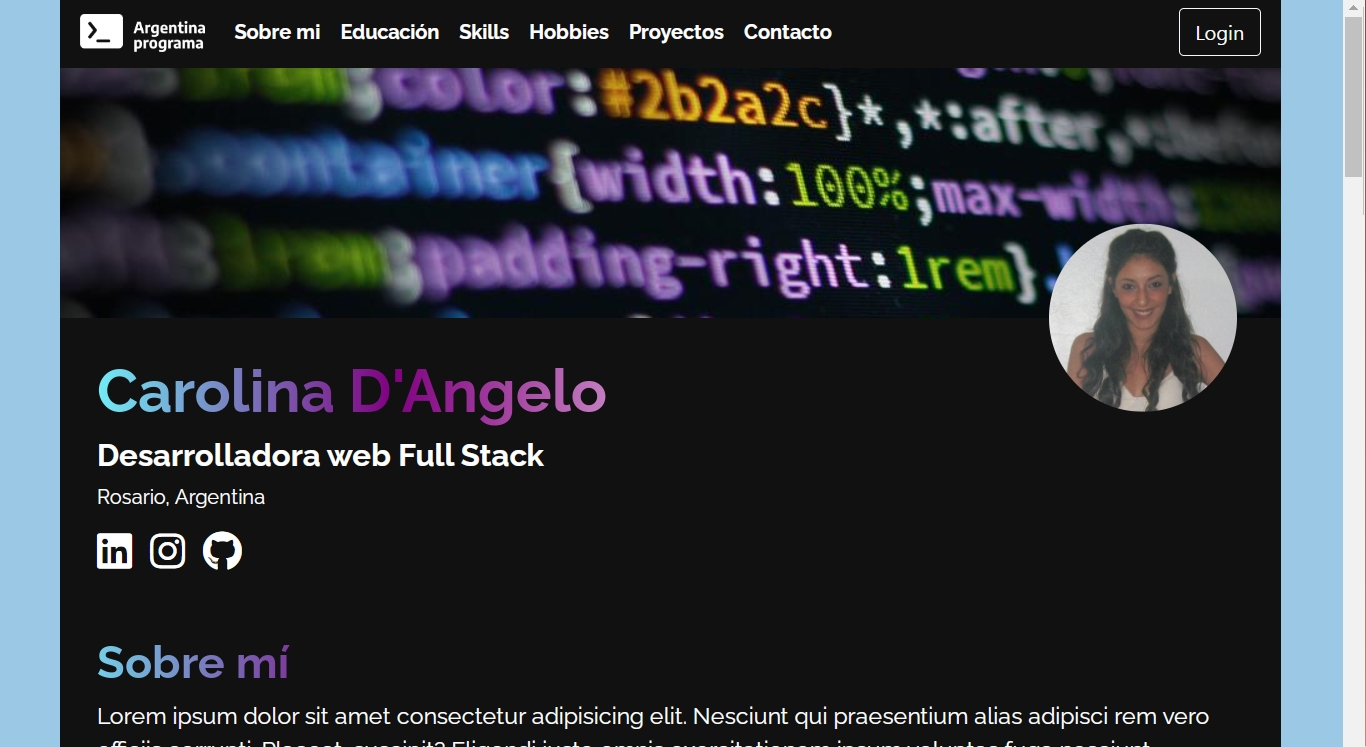
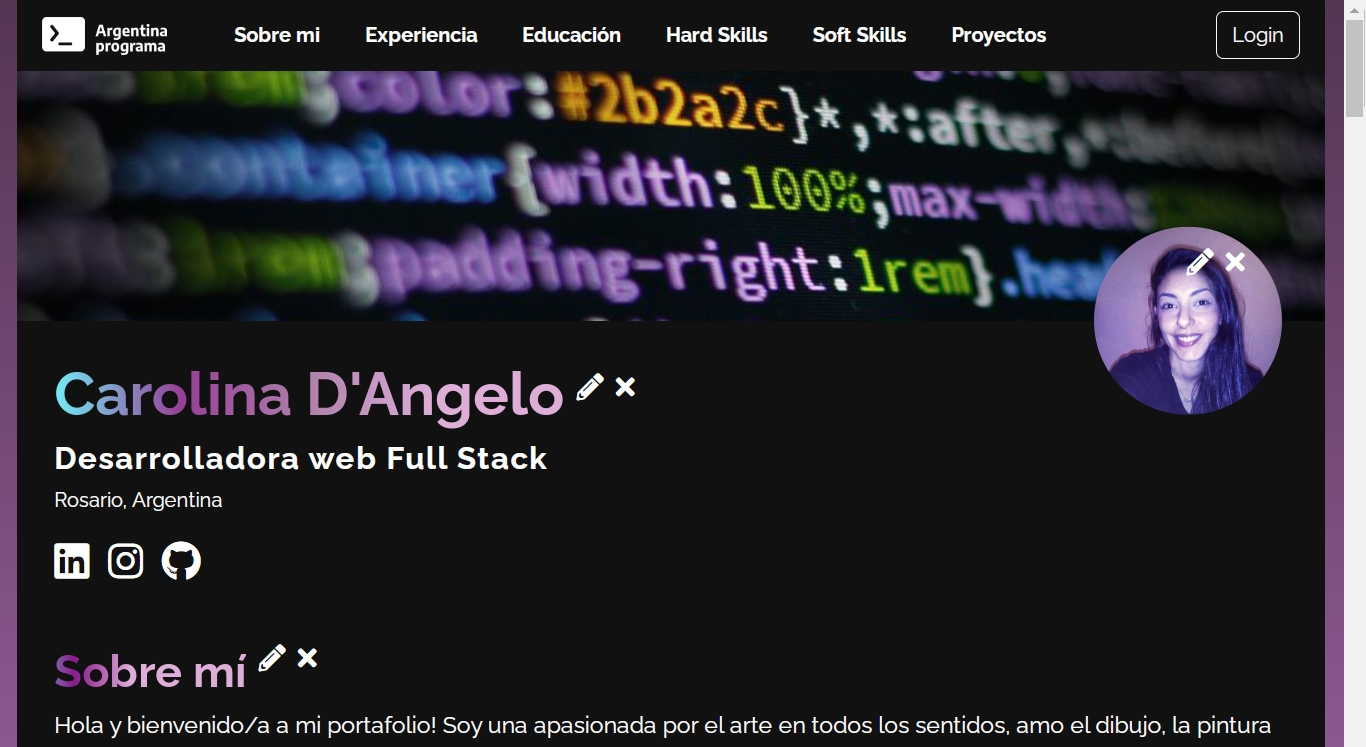
Arreglos

diff --git a/src/index.html b/src/index.html
@@ -6,31 +6,29 @@
   <base href="/">
   <meta name="viewport" content="width=device-width, initial-scale=1">
   <link rel="icon" type="image/x-icon" href="assets/img/favicon.png">
-    <link
-    rel="stylesheet"
-    href="https://maxcdn.bootstrapcdn.com/bootstrap/4.0.0/css/bootstrap.min.css"
-    integrity="sha384-Gn5384xqQ1aoWXA+058RXPxPg6fy4IWvTNh0E263XmFcJlSAwiGgFAW/dAiS6JXm"
-    crossorigin="anonymous"/>
-    <link 
-    href="https://cdn.jsdelivr.net/npm/bootstrap@5.3.0-alpha1/dist/css/bootstrap.min.css" 
-    rel="stylesheet" 
-    integrity="sha384-GLhlTQ8iRABdZLl6O3oVMWSktQOp6b7In1Zl3/Jr59b6EGGoI1aFkw7cmDA6j6gD" 
-    crossorigin="anonymous"/>
-    <link rel="stylesheet" 
-    href="https://use.fontawesome.com/releases/v5.15.1/css/all.css" 
-    integrity="sha384-vp86vTRFVJgpjF9jiIGPEEqYqlDwgyBgEF109VFjmqGmIY/Y4HV4d3Gp2irVfcrp" 
-    crossorigin="anonymous"/>
-    <link rel="stylesheet" href="styles.css">
+
+  <link rel="stylesheet" href="https://cdnjs.cloudflare.com/ajax/libs/bootstrap/5.1.3/css/bootstrap.min.css" 
+  integrity="sha512-NMWd4v4I7/vW8zEjN2+WceJ1vS+7kWAgX6yPKbzOgjT6lOa6oxlU6pkDdKjgIzb7s3H9qlCrVzI/Zd0xzsV7vA==" 
+  crossorigin="anonymous" referrerpolicy="no-referrer" />
+
+  <link rel="stylesheet" 
+  href="https://use.fontawesome.com/releases/v5.15.1/css/all.css" 
+  integrity="sha384-vp86vTRFVJgpjF9jiIGPEEqYqlDwgyBgEF109VFjmqGmIY/Y4HV4d3Gp2irVfcrp" 
+  crossorigin="anonymous"/>
+
+  <link rel="stylesheet" href="styles.css">
 </head>
 <body>
   <app-root></app-root>
+
   <footer class="container-footer">
     <p class="footer-text">&copy; Desarrollado por Carolina D'Angelo - 2023</p>
   </footer>
-    <script 
-  src="https://cdn.jsdelivr.net/npm/bootstrap@5.3.0-alpha1/dist/js/bootstrap.bundle.min.js" 
-  integrity="sha384-w76AqPfDkMBDXo30jS1Sgez6pr3x5MlQ1ZAGC+nuZB+EYdgRZgiwxhTBTkF7CXvN" 
-  crossorigin="anonymous">
-  </script>
+<script 
+  src="https://cdnjs.cloudflare.com/ajax/libs/bootstrap/5.1.3/js/bootstrap.bundle.min.js" 
+  integrity="sha512-dv+d9X+RzFn0KTdG//x26qH3KjtyF0BnoJFNZlkuDQFutXb0K2Q5+c/GzL/A0nKj/x8tGhIZiEteJpwm5K5r5w==" 
+  crossorigin="anonymous" referrerpolicy="no-referrer">
+</script>
+
 </body>
 </html>

diff --git a/src/styles.css b/src/styles.css
@@ -34,6 +34,7 @@ div.editar-datos {
 
 
 /* ----- Navegador ----- */
+
 .navbar {
     background-color: #111111;
     color: #ffffff;
@@ -138,50 +139,6 @@ div.editar-datos {
     padding-right: 30px;
     padding-bottom: 30px;
 }
-
-/* ----- Hobbies ----- 
-
-.hobby-icon {
-    font-size: 36px;
-    margin-bottom: 10px;
-    color: #ffffff;
-    text-align: center;
-  }
-
-.hobby-title {
-    font-family: 'Raleway';
-    color: #bfbfbf;
-    font-size: 15px;
-    text-align: center;
-  }
-
-.container-hobbies {
-    background-color: #111111;
-    border-radius: 5px;
-    margin-bottom: 15px;
-    padding-bottom: 15px;
-    margin-left: 15px;
-    margin-right: 15px;
-  }
-
-.iconos-hobbies {
-    align-items: center;
-    margin: 30px;
-  }
-
-.row-icon {
-    display: flex;
-    justify-content: space-evenly;
-    text-align: center;
-}
-
-div.cont-h {
-    display: flex;
-    flex-direction: column;
-    justify-content: center;
-    align-items: center;
-    padding: 10px;
-}*/
 
 /* ----- Experiencia ----- */
 .experiencia {
@@ -327,6 +284,7 @@ circle-progress {
     text-align: center;
     margin-top: 10px;
   }
+
 /* ----- Proyectos ----- */
 .container-proyectos {
     background-color: #111111;
@@ -369,21 +327,6 @@ circle-progress {
     font-size: 12px;
 }
 
-/* CONTACTO */
-
-.container-contacto {
-    background-color: #111111;
-    border-radius: 5px;
-    margin-bottom: 15px;
-    padding-bottom: 35px;
-    margin-left: 15px;
-    margin-right: 15px;
-}
-
-.btn-primary {
-    background-color: #5a80c1;
-}
-
 /* Footer */
 
 footer {
@@ -409,7 +352,8 @@ footer {
     font-size: 16px;
 }
 
-/*------- RESPONSIVE -------*/
+/*------- RESPONSIVE MOBILE -------*/
+
 @media only screen and (max-width: 769px) {
     
 .banner {
@@ -484,6 +428,7 @@ ul {
 
 }
 
+/*------- RESPONSIVE TABLET -------*/
 @media only screen and (min-width: 768px) {
     .navbar-toggler-icon {
         background-color: #949494;

diff --git a/src/app/components/experiencia/experiencia.component.html b/src/app/components/experiencia/experiencia.component.html
@@ -23,42 +23,3 @@
         </div>
       </div>
   </section>
-
-
-
-<!-- Hobbies 
-<section class="container-hobbies" id="hobbies">
-    <h2 class="titulo-degrade">Hobbies</h2>
-      <div class="iconos-hobbies">
-        <div class="row row-icon">
-          <div class="cont-h col-md-1">
-            <i class="hobby-icon fas fa-pencil-alt"></i>
-            <div class="hobby-title">Dibujo</div>
-          </div>
-          <div class="cont-h col-md-1">
-            <i class="hobby-icon fas fa-paint-brush"></i>
-            <div class="hobby-title">Pintura</div>
-          </div>
-          <div class="cont-h col-md-1">
-            <i class="hobby-icon fas fa-music"></i>
-            <div class="hobby-title">Música</div>
-          </div>
-          <div class="cont-h col-md-1">
-            <i class="hobby-icon fas fa-gamepad"></i>
-            <div class="hobby-title">Juegos</div>
-          </div>
-          <div class="cont-h col-md-1">
-            <i class="hobby-icon fas fa-star"></i>
-            <div class="hobby-title">Astrología</div>
-          </div>
-          <div class="cont-h col-md-1">
-            <i class="hobby-icon fas fa-heart"></i>
-            <div class="hobby-title">Tarot</div>
-          </div>
-          <div class="cont-h col-md-1">
-            <i class="hobby-icon fas fa-dumbbell"></i>
-            <div class="hobby-title">Ejercicio</div>
-          </div>
-        </div>
-      </div>
-</section>-->

diff --git a/src/app/components/educacion/educacion.component.html b/src/app/components/educacion/educacion.component.html
@@ -20,29 +20,6 @@
               </p>
             </li>
         </ul>
-
-    <!--  
-        <ul class="cursos">
-          <img src="../assets/img/aluraone.png" class="foto-curso" alt="Argentina Programa">
-          <li class="curso-li">
-            <h3 class="curso-nombre">Alura ONE Education</h3>
-            <p class="curso-fecha">Febrero 2023</p>
-            <p class="curso-descripcion">
-              Productividad y enfoque || Hábitos para ser productivo || Lógica de Programación || HTML5 y CSS3 || Diseño responsivo || Git y Github || JavaScript || Java || MySQL || Gestión ágil ||
-            </p>
-          </li>
-        </ul>
-
-        <ul class="cursos">
-          <img src="../assets/img/freecodecamp.png" class="foto-curso" alt="Argentina Programa">
-          <li class="curso-li">
-            <h3 class="curso-nombre">FreeCodeCamp</h3>
-            <p class="curso-fecha">Julio 2022</p>
-            <p class="curso-descripcion">
-              HTML || CSS || JavaScript || Diseño responsive ||
-            </p>
-          </li> 
-        </ul>-->
       </div>
     </div>
 </section>

diff --git a/src/app/components/header/header.component.html b/src/app/components/header/header.component.html
@@ -4,13 +4,13 @@
       <a class="navbar-brand" href="#">
         <img src="../assets/img/logo.png" width="100" height="30" alt="Logo" />
       </a>
-      <button
+      <button 
         class="navbar-toggler"
         type="button"
         data-bs-toggle="collapse"
         data-bs-target="#navbarNav"
         aria-controls="navbarNav"
-        aria-expanded="false"
+        aria-expanded="true"
         aria-label="Toggle navigation"
       >
       <span class="navbar-toggler-icon"></span>
